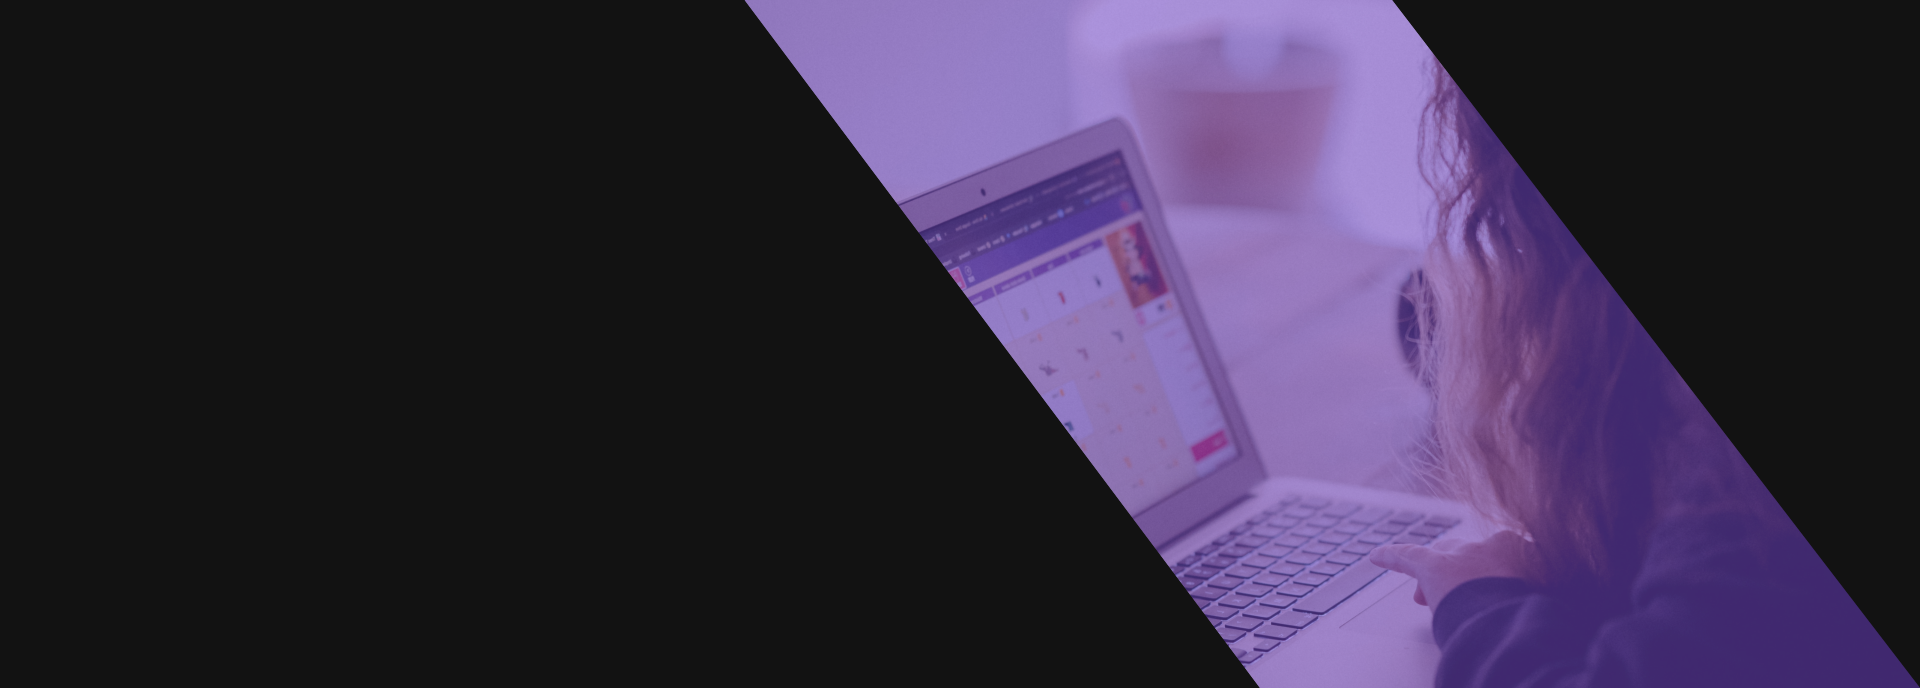
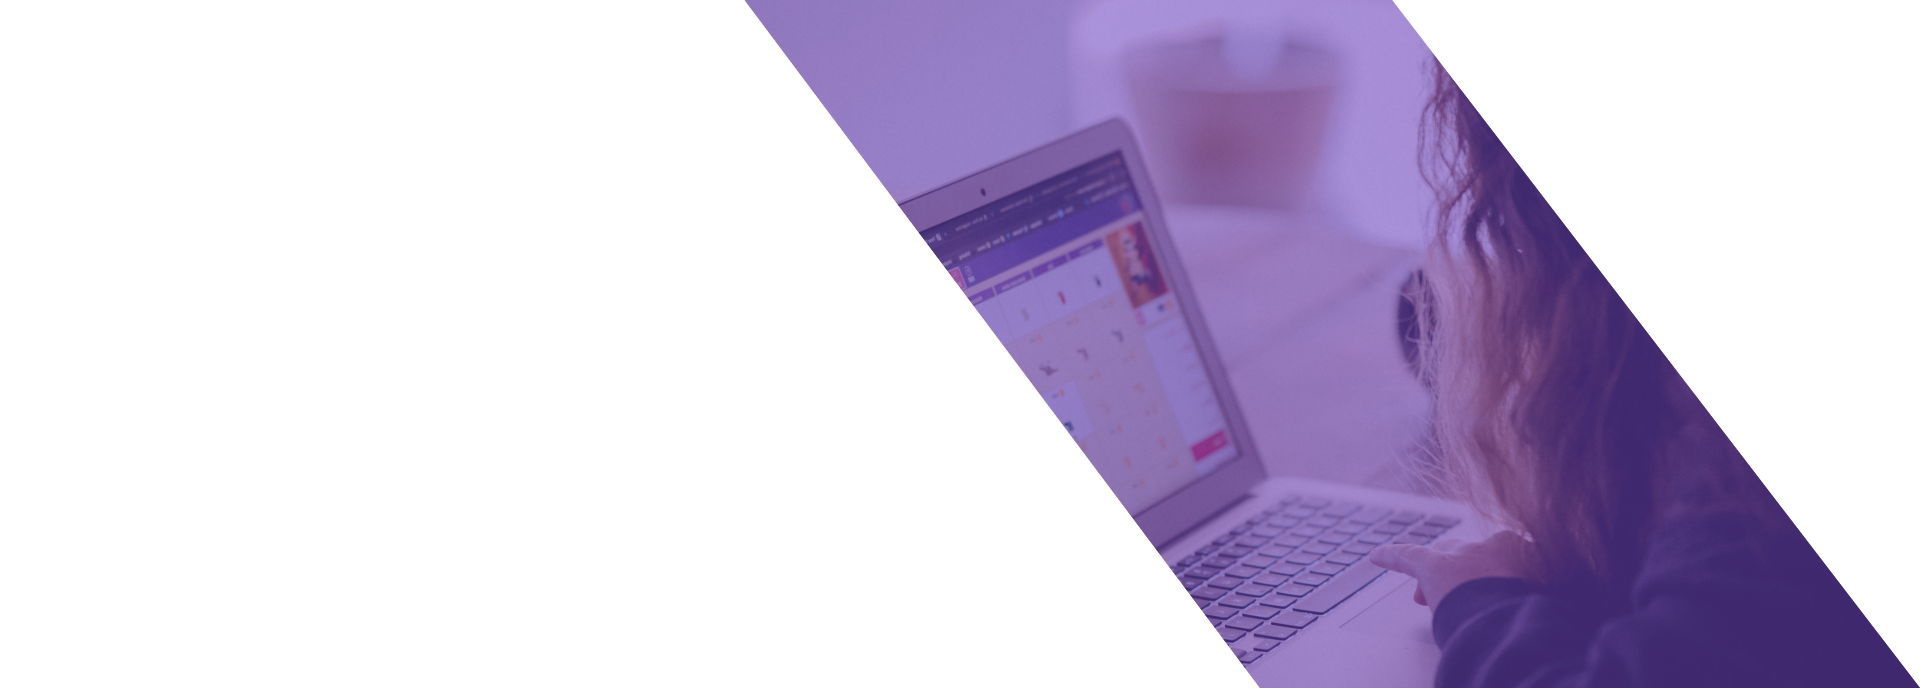
Updated all images to WEBP format

diff --git a/static/css/site.css b/static/css/site.css
@@ -279,7 +279,7 @@ main {
     width: 100vw;
     height: 100%;
     position: relative;
-    background: url('/static/img/websiteheader200626.png');
+    background: url('/static/img/websiteheader200626.webp');
     background-position: right center;
     background-repeat: no-repeat;
     background-size: contain;
@@ -379,8 +379,8 @@ header .button {
 #ixefeatures img {
     display: block;
     align-self: center;
-    width: 40vw;
-    box-shadow: 0 0 40px 0 rgba(0, 0, 0, 0.14);
+    width: 50vw;
+    box-shadow: 0 0 10px 0 rgba(0, 0, 0, 0.2);
     image-rendering: optimizeQuality;
 }
 
@@ -396,7 +396,7 @@ header .button {
 
 .ixefeature {
     display: none;
-    width: 40vw;
+    max-width: 40vw;
     flex-direction: row;
     align-content: flex-start;
 }
